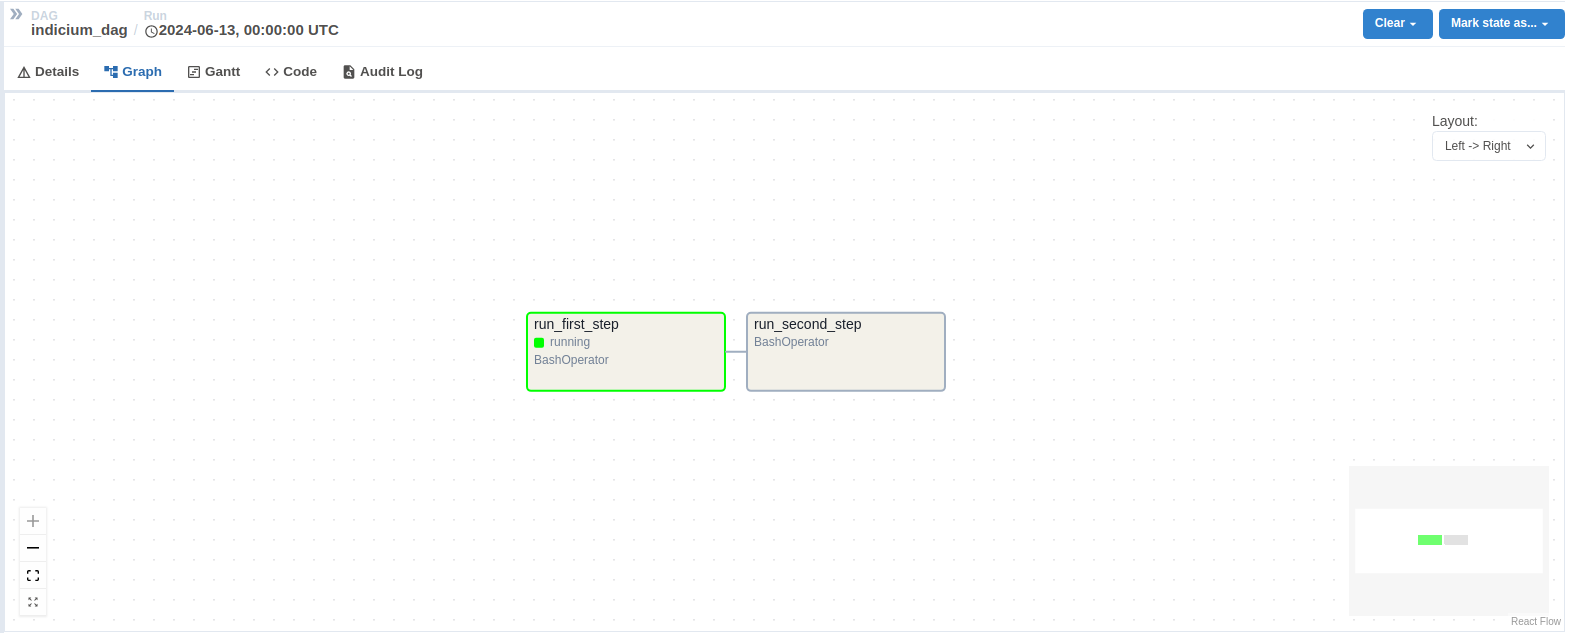
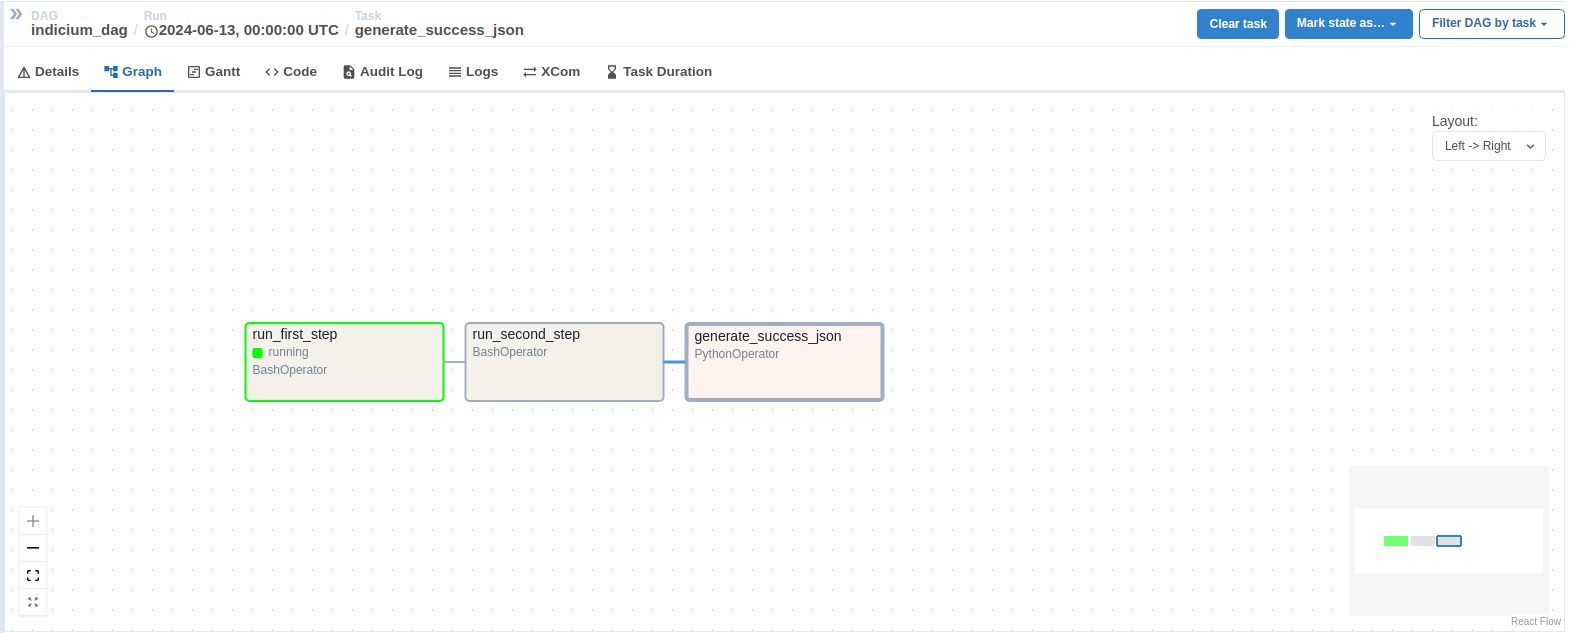
Criando função de retorno de mensagem de sucesso na DAG

diff --git a/indicium_dag.py b/indicium_dag.py
@@ -1,6 +1,10 @@
 from airflow import DAG
 from airflow.operators.bash import BashOperator
+from airflow.operators.python import PythonOperator
 from airflow.utils.dates import days_ago
+from datetime import datetime
+import json
+import os
 
 default_args = {
     'owner': 'airflow',
@@ -10,6 +14,19 @@ default_args = {
     'retries': 0,  
 }
 
+def generate_success_json():
+   success_info = {
+      "status": "Success when running DAG!",
+      "date": f"{datetime.now().strftime("%Y-%m-%d %H:%M:%S")}"
+   }
+
+   home_directory = os.path.expanduser('~')
+   file_path = os.path.join(home_directory, f"indicium-test/messages/{datetime.now().strftime("%Y-%m-%d_%H:%M:%S")}_success.json")
+
+   out_file = open(file_path, "w") 
+   json.dump(success_info, out_file, indent = 4) 
+   out_file.close() 
+
 with DAG ('indicium_dag', 
           description='DAG to run Meltano steps sequentially',
           default_args=default_args,
@@ -17,14 +34,19 @@ with DAG ('indicium_dag',
           schedule_interval = "@daily", 
           catchup = False) as dag:
   
-  run_first_step = BashOperator(
+   run_first_step = BashOperator(
      task_id = "run_first_step",
      bash_command = "~/indicium-test/run_first_step.sh ~/indicium-test/first_step"
-  )
+   )
 
-  run_second_step = BashOperator(
+   run_second_step = BashOperator(
      task_id = "run_second_step",
      bash_command = "~/indicium-test/run_second_step.sh ~/indicium-test/second_step"
-  )
+   )
 
-  run_first_step >> run_second_step
+   generate_success_file = PythonOperator(
+      task_id = "generate_success_json",
+      python_callable = generate_success_json
+   )
+
+run_first_step >> run_second_step >> generate_success_file

diff --git a/README.md b/README.md
@@ -42,6 +42,8 @@
     1. Execute o comando ```python3 -m venv venv``` para criar o ambiente virtual destinado ao Apache Airflow, 
     2. Ative o ambiente virtual executando o comando ```source venv/bin/activate```, 
     3. Instale as bibliotecas necessárias executando o comando ```pip install -r requirements.txt```.
+    4. Dê permissão de execução para o script Bash da primeira etapa executando o comando: ```chmod +x run_first_step.sh```.
+    5. Dê permissão de execução para o script Bash da segunda etapa executando o comando: ```chmod +x run_second_step.sh```.
 
 9. Com o Apache Airflow instalado e com o ambiente de desenvolvimento ativado, execute o comando ```airflow standalone```. No final da execução deste comando, será fornecido ao usuário as credenciais de login para acessar o Airflow na porta 8080, como no exemplo abaixo, que o username é <strong>admin</strong> e a senha é <strong>2HMSV2VwuxugkzDK</strong>.
 
